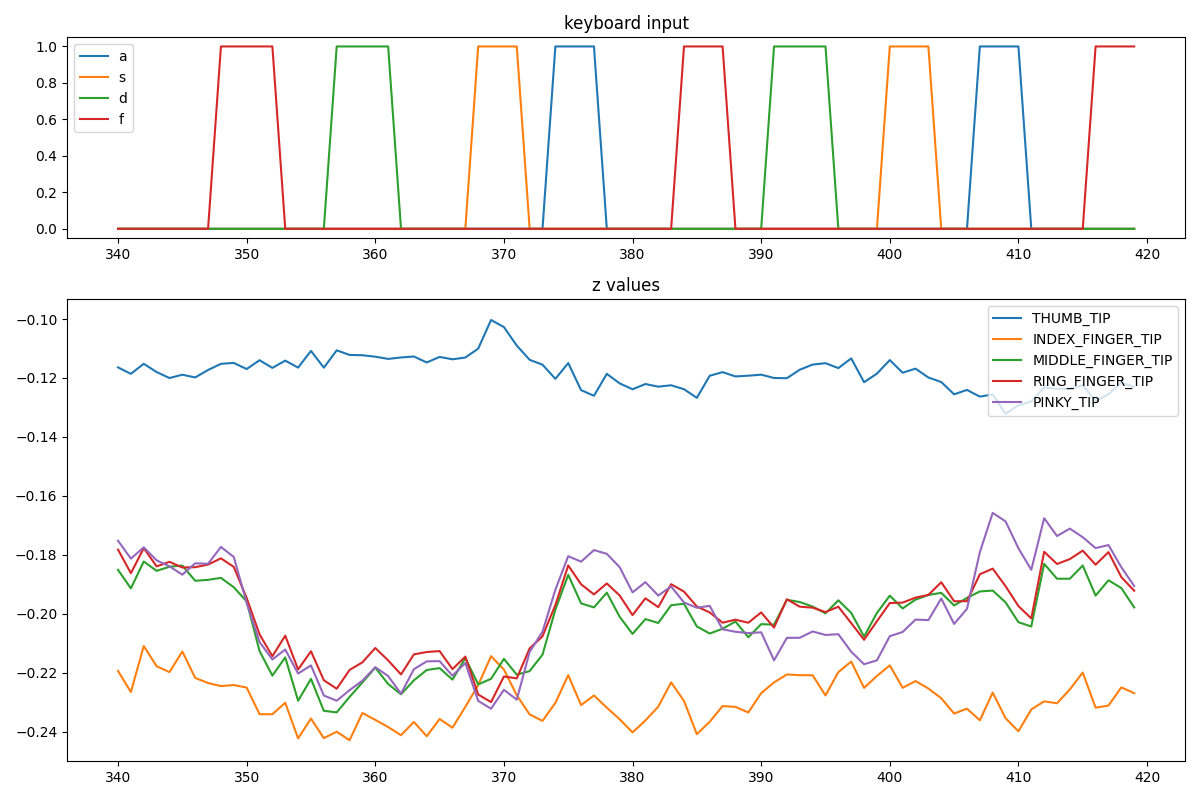
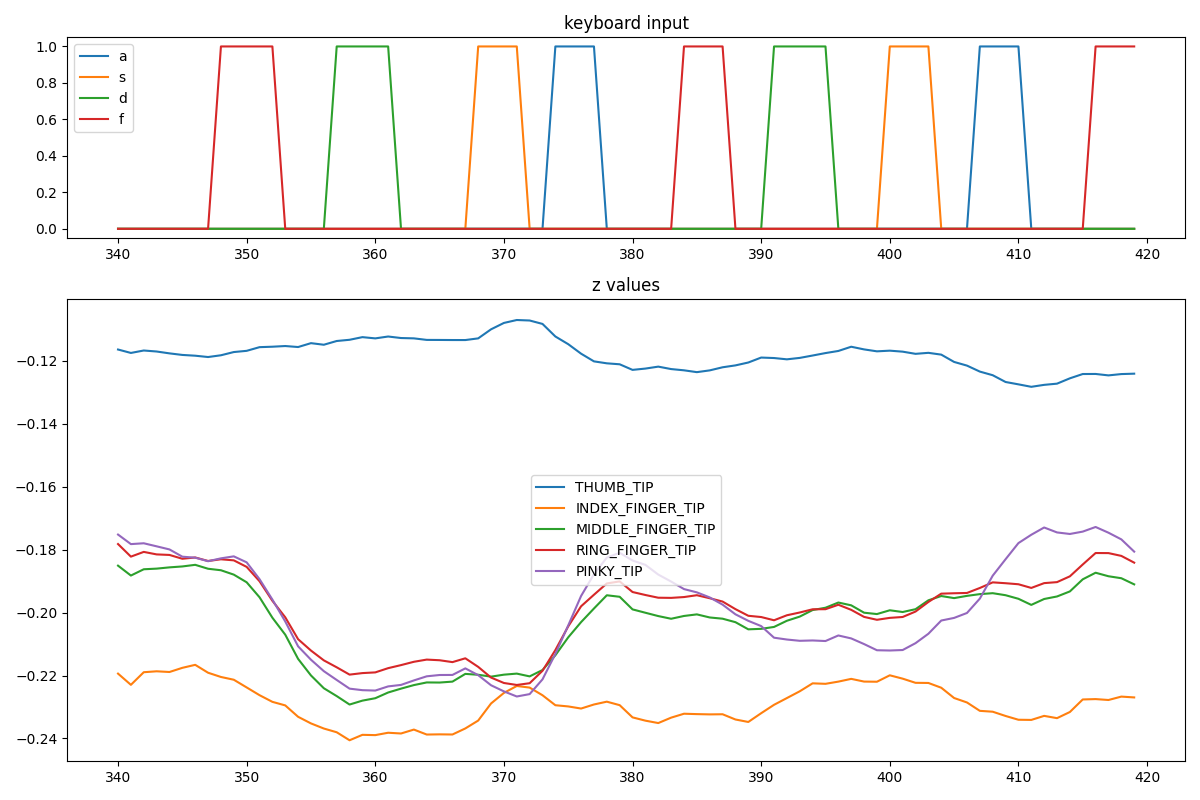
fixed assignment fail issue - 'SettingWithCopy' warning - iloc() can return copy of itself in some cases

diff --git a/visualization/visualize_hand_average.py b/visualization/visualize_hand_average.py
@@ -22,16 +22,17 @@ df = df.iloc[df.index[340:420]]
 
 ################################# average smoothing ###############################
 
-x_df = df[x_names]
+df_copy = df[x_names]
 
-window_size = 20
+window_size = 5
 
-for i in range(1, len(x_df)):
+for x in x_names:
+    for i in range(1, len(df)):
 
-    start = max(0, i - window_size + 1)
-    end   = i + 1
+        start = max(0, i - window_size + 1)
+        end   = i + 1
 
-    df[x_names].iloc[i] = x_df.iloc[start:end].mean()
+        df[x].iloc[i] = df_copy[x].iloc[start:end].mean()
 
 
 #################################### plot data ####################################

diff --git a/visualization/visualize_hand_gamma.py b/visualization/visualize_hand_gamma.py
@@ -22,10 +22,11 @@ df = df.iloc[df.index[340:420]]
 
 ################################# weight smoothing ################################
 
-gamma = 0.2  # weight of new value
+gamma = 0.4  # weight of new value
 
-for row in range(1, len(df)):
-    df[x_names].iloc[row] = df[x_names].iloc[row-1] * (1-gamma) + df[x_names].iloc[row] * gamma
+for x in x_names:
+    for row in range(1, len(df)):
+        df[x].iloc[row] = df[x].iloc[row-1] * (1-gamma) + df[x].iloc[row] * gamma
 
 
 #################################### plot data ####################################
